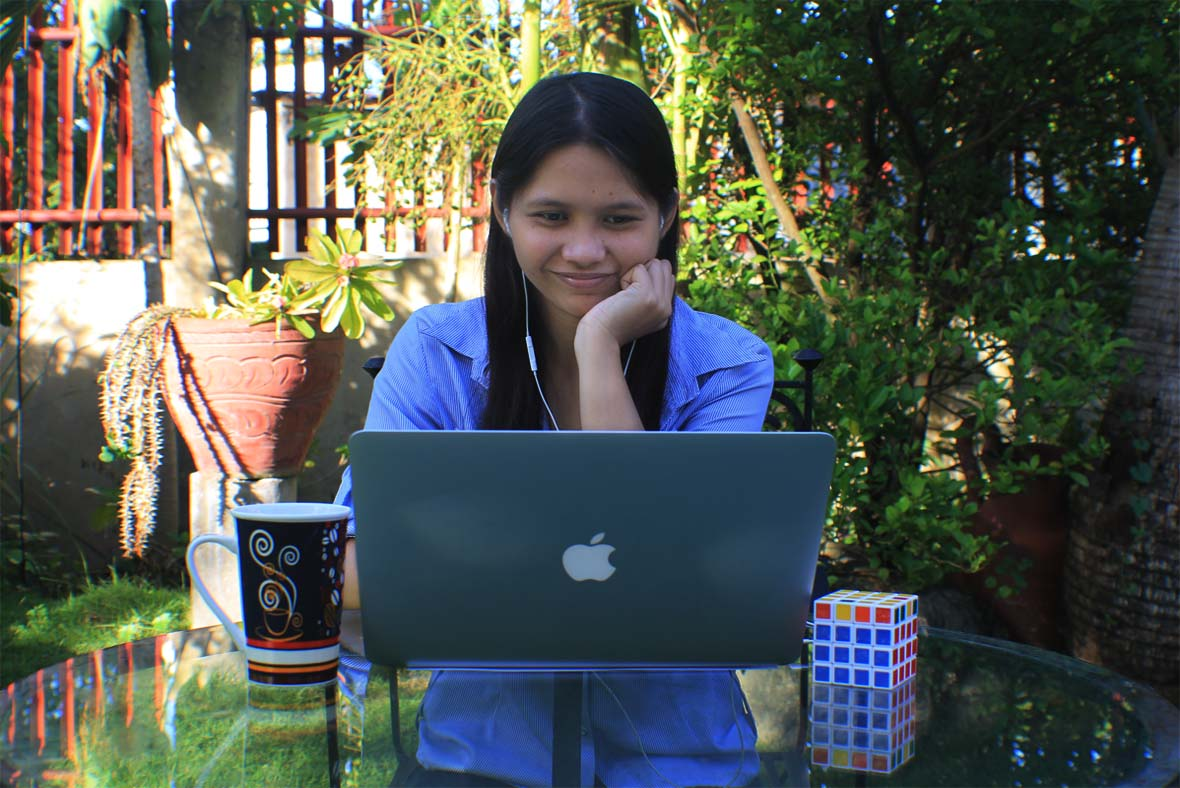
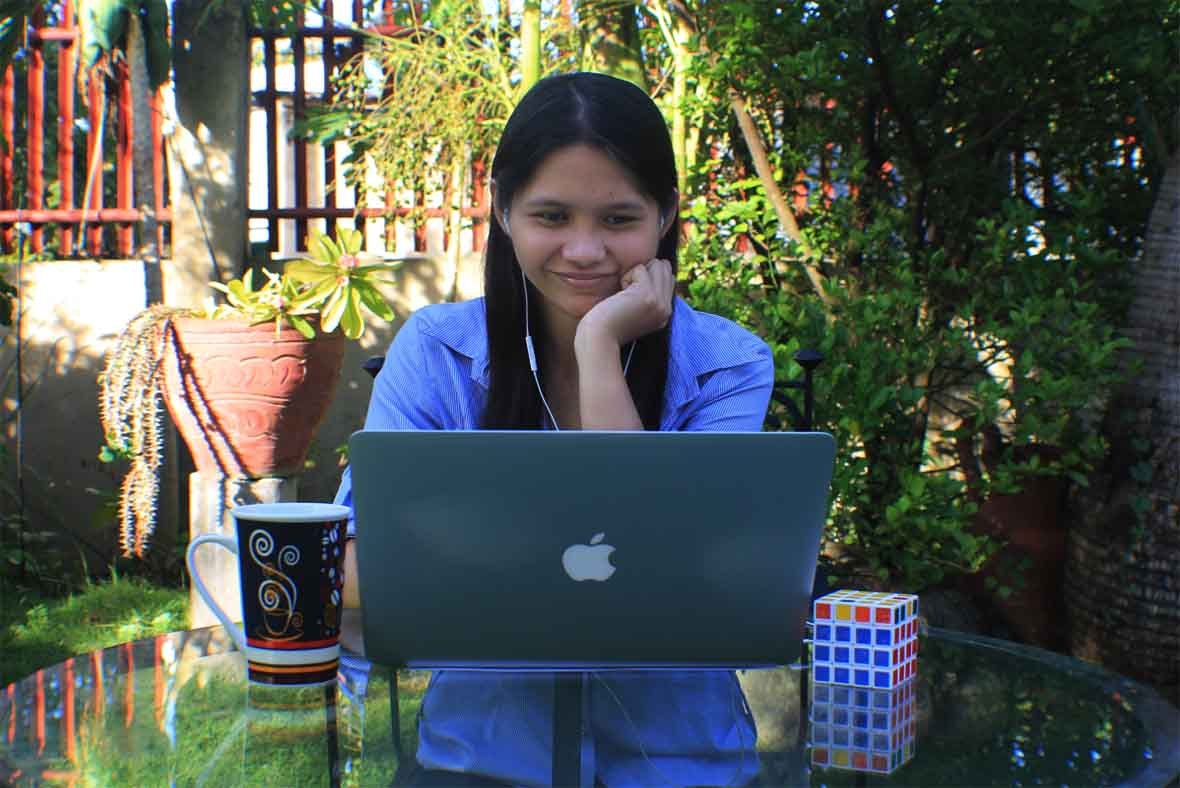
Optimized image and adjusted header text

diff --git a/public/index.html b/public/index.html
@@ -53,7 +53,7 @@
         <div class="container">
             <div class="intro-text">
                 <div class="intro-lead-in">Full Stack Web Developer ♥ Javascript </div>
-                <div class="intro-heading">&lt;cleocredo/&gt; </div>
+                <div class="intro-heading">Cleo Credo</div>
                 <div class="intro-lead-in">Page is being redeveloped, follow me on <a href="https://www.instagram.com/filipina.coder/">Instagram</a></div>
             </div>
         </div>
